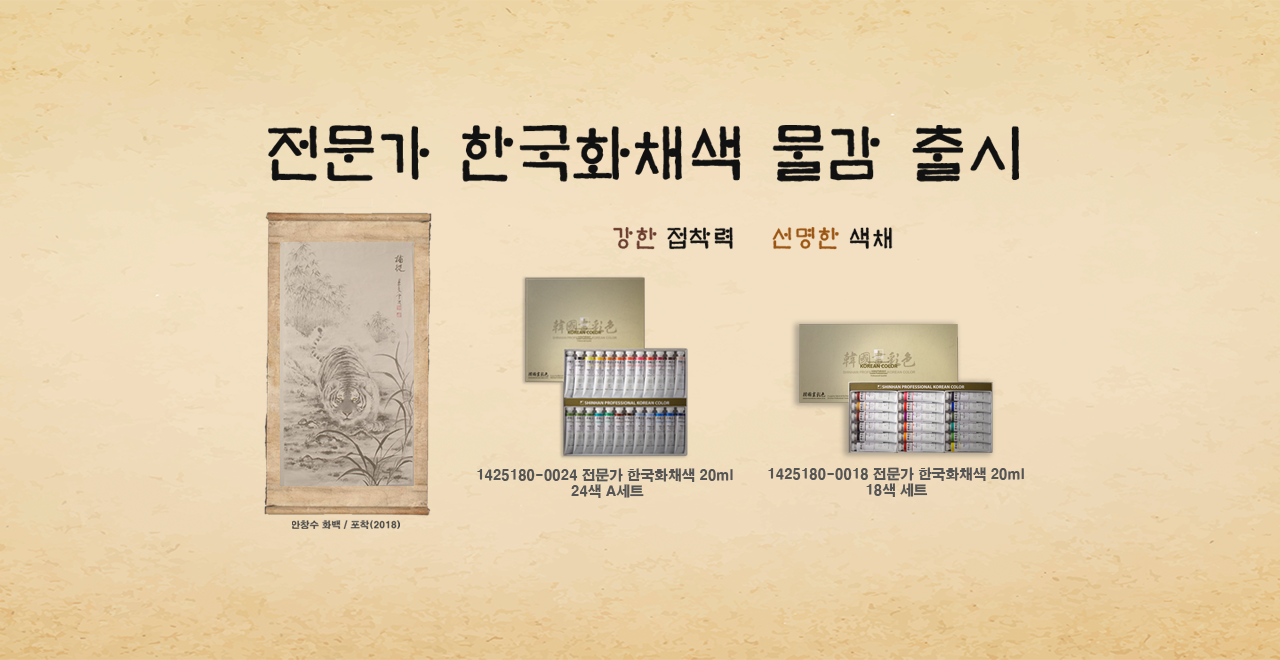
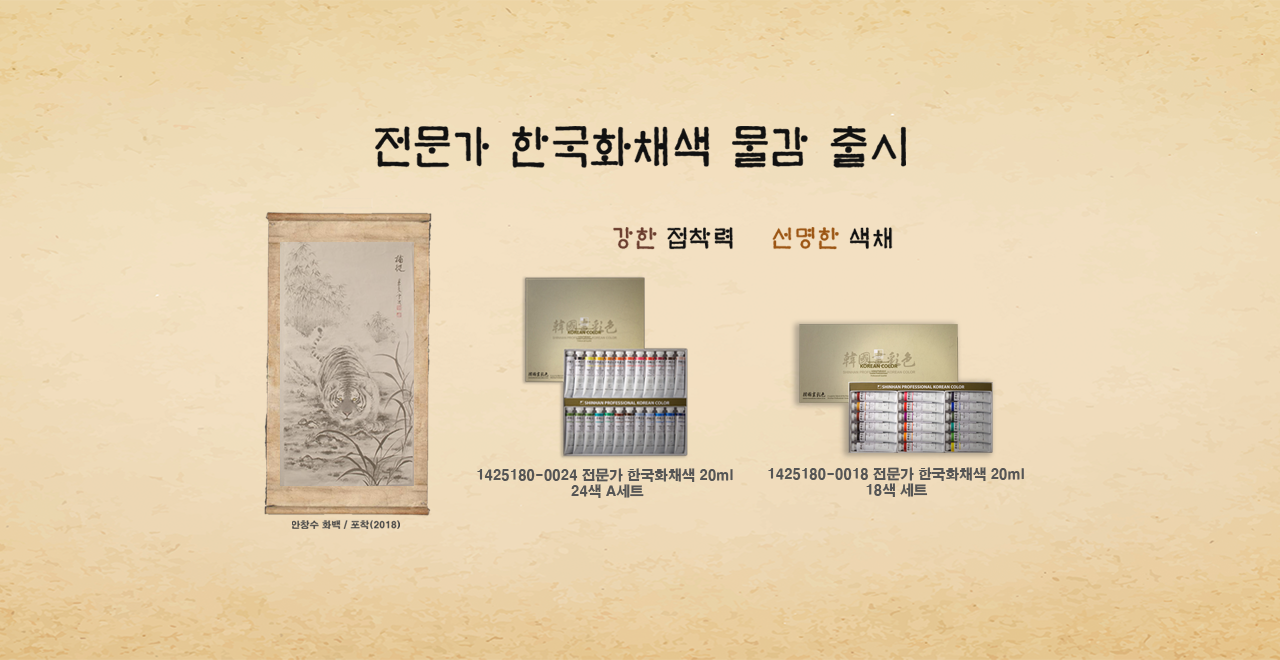
22.12.19
*변경점
반응형 내용 추가 
이미지 수정

Changed region(s): [[0.1875, 0.1818, 0.8125, 0.2727]]

diff --git a/index.html b/index.html
@@ -228,7 +228,8 @@
                   </ul>
                 </div>
                 <div class="sidemenu__bg active">
-                  <img src="./images/header/sidemenu/sidebg-01.png" alt="팔만대장경">
+                  <img class="bg--web" src="./images/header/sidemenu/sidebg-01.png" alt="팔만대장경">
+                  <img class="bg--mobile" src="./images/header/sidemenu/sidebg-01__1024.png" alt="팔만대장경">
                 </div>
               </div>
               <div class="sidemenu__main">
@@ -244,7 +245,8 @@
                   </ul>
                 </div>
                 <div class="sidemenu__bg">
-                  <img src="./images/header/sidemenu/sidebg-02.png" alt="미술용품DIY">
+                  <img class="bg--web" src="./images/header/sidemenu/sidebg-02.png" alt="미술용품DIY">
+                  <img class="bg--mobile" src="./images/header/sidemenu/sidebg-02__1024.png" alt="미술용품DIY">
                 </div>
               </div>
               <div class="sidemenu__main">
@@ -260,7 +262,8 @@
                   </ul>
                 </div>
                 <div class="sidemenu__bg">
-                  <img src="./images/header/sidemenu/sidebg-03.png" alt="안창수화백">
+                  <img class="bg--web" src="./images/header/sidemenu/sidebg-03.png" alt="안창수화백">
+                  <img class="bg--mobile" src="./images/header/sidemenu/sidebg-03__1024.png" alt="안창수화백">
                 </div>
               </div>
               <div class="sidemenu__main">
@@ -276,7 +279,8 @@
                   </ul>
                 </div>
                 <div class="sidemenu__bg">
-                  <img src="./images/header/sidemenu/sidebg-04.png" alt="이집트">
+                  <img class="bg--web" src="./images/header/sidemenu/sidebg-04.png" alt="이집트">
+                  <img class="bg--mobile" src="./images/header/sidemenu/sidebg-04__1024.png" alt="이집트">
                 </div>
               </div>
             </div>
@@ -763,16 +767,23 @@
                 <div class="swiper-slide">
                   <a href="javascript:;">
                     <img class="news--img" src="./images/section/news/news_baskia.png" alt="바스키야 특별전">
+                    <strong class="news--mobile">전시회 소식</strong>
+                    <p class="news--mobile">장 미쉘 바스키야 특별전</p>
                   </a>
+
                 </div>
                 <div class="swiper-slide">
                   <a href="javascript:;">
                     <img class="news--img" src="./images/section/news/news_shparty.png" alt="엽서공모전">
+                    <strong class="news--mobile">공모전 소식</strong>
+                    <p class="news--mobile">전국 선인 엽서 공모전</p>
                   </a>
                 </div>
                 <div class="swiper-slide">
                   <a href="javascript:;">
                     <img class="news--img" src="./images/section/news/news_102.png" alt="뉴스레터102호">
+                    <strong class="news--mobile">정기구독 소식</strong>
+                    <p class="news--mobile">선인 뉴스 102호</p>
                   </a>
                 </div>
               </div>

diff --git a/css/size.css b/css/size.css
@@ -52,12 +52,9 @@
   }
 
   /* header sidemenu */
-  .sidemenu__nav {
-    padding: 200px 105px 85px 90px;
-  }
-
   .sidemenu__left {
     width: 630px;
+    padding: 80px 105px 85px 90px;
   }
 
   .sidemenu__right {
@@ -181,12 +178,9 @@
 @media screen and (max-width: 1280px) {
 
   /* sidemenu */
-  .sidemenu__nav {
-    padding: 190px 90px 85px 45px;
-  }
-
   .sidemenu__left {
-    width: 570px;
+    width: 570px;    
+    padding: 80px 90px 85px 45px;
   }
 
   .sidemenu__right {
@@ -331,6 +325,30 @@
 
 /*** width 1100 ***/
 @media screen and (max-width: 1100px) {
+  /* header */
+  .se--title {
+    font-size: 40px;
+  }
+
+  /* story */
+  #story .more--btn {
+    display: none;
+  }
+
+  /* news */
+  .news__text {
+    display: none;
+  }
+
+  .swiper-news-box .swiper-news-bullet {
+    display: none;
+  }
+
+  .mySwiper-news {
+    width: 700px;
+  }
+
+  /* sns */
   .sns__itemlist {
     width: 650px;
     grid-template-columns: repeat(2, 1fr);
@@ -340,10 +358,6 @@
 
 /*** width 1024 ***/
 @media screen and (max-width: 1024px) {
-  .se--title {
-    font-size: 40px;
-  }
-
   /* header */
   .navleft {
     padding-left: 170px;
@@ -358,6 +372,14 @@
   }
 
   /* sidemenu */
+  .bg--web {
+    display: none;
+  }
+
+  .bg--mobile {
+    display: block;
+  }
+
   .sidemenu__gnb {
     display: inline-block;
     width: 100%;
@@ -367,10 +389,7 @@
   .sidemenu__left {
     width: 100%;
     height: 550px;
-  }
-
-  .sidemenu__nav {
-    padding: 180px calc(100% - 490px) 60px 55px;
+    padding: 80px calc(100% - 490px) 60px 55px;
   }
 
   .sidemenu__right {
@@ -464,6 +483,12 @@
     margin-right: 20px;
   }
 
+}
   
 
+/*** width 800 ***/
+@media screen and (max-width: 800px) {
+  .sidemenu__right {
+    padding: 80px 23px 100px 55px;
+  }
 }

diff --git a/js/main.js b/js/main.js
@@ -274,11 +274,6 @@ var swiperBullet = new Swiper(".mySwiper-story", {
 
 
 // *** SI COLLECTION ***
-
-// 🎄🎄🎄🎄 해결과제
-// swiper-slide의 가로값을 가져와서
-// scroll 가로값에 적용시키기 (실시간 라이브 등록 구현해야됨) 
-
 // swiper new
 var swiper__new = new Swiper(".mySwiper-new", {
   spaceBetween: 50,

diff --git a/css/style.css b/css/style.css
@@ -387,6 +387,7 @@ nav {
   height: 100%;
   position: relative;
   overflow: hidden;
+  white-space: nowrap;
   padding: 80px 170px 85px 90px;
 }
 
@@ -530,6 +531,9 @@ nav {
 }
 
 /* background img*/
+.bg--mobile {
+  display: none;
+}
 .sidemenu__bg {
   position: absolute;
   top: 0;
